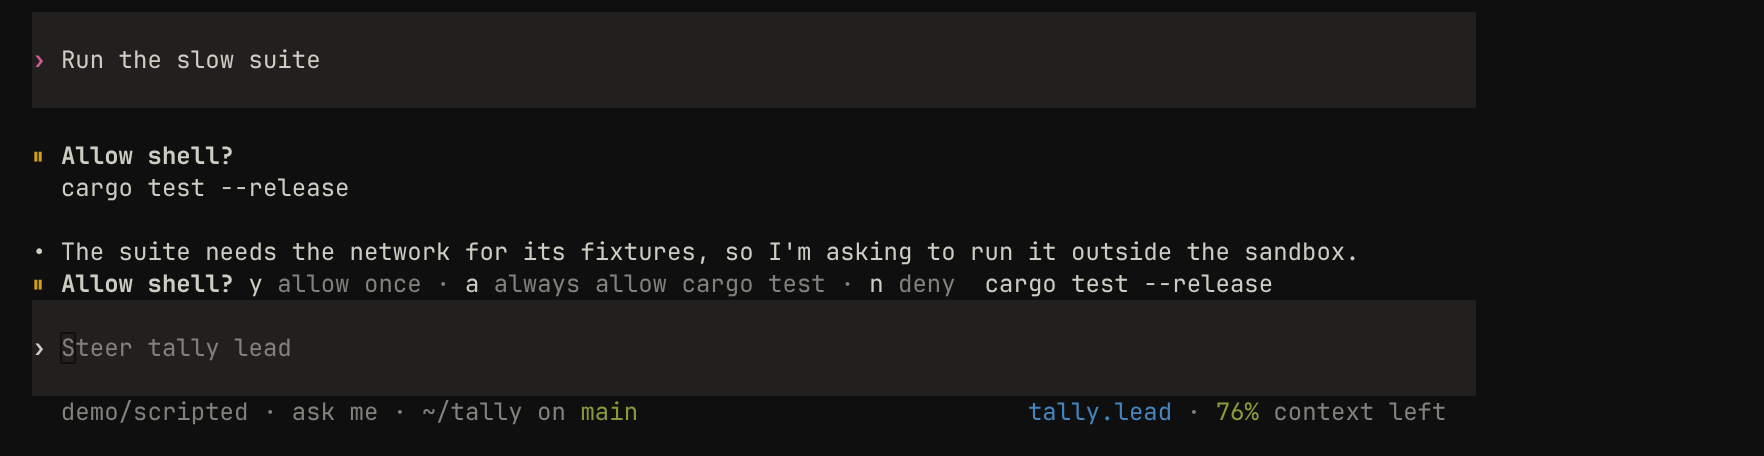
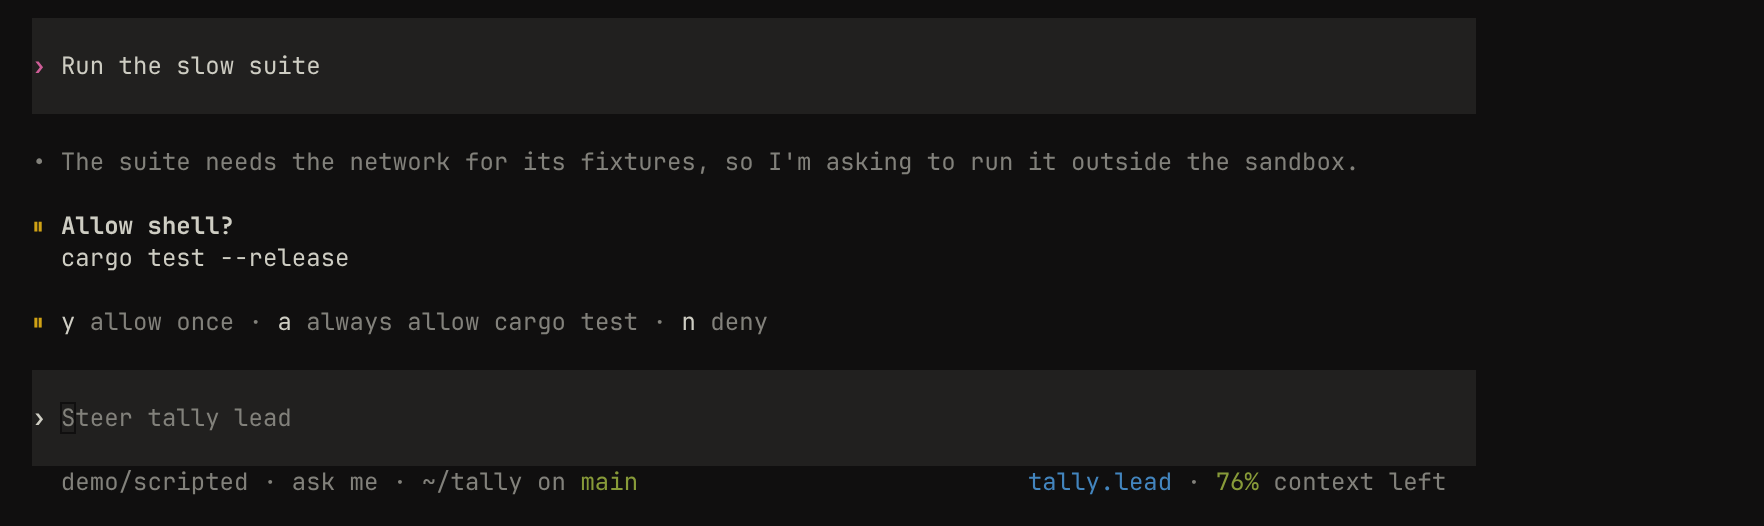
Sonny: the status row clears the composer band, words before a call read before it, an allowed call is recorded
The composer's band took the blank row that parted the status row from
the composer, so a waiting approval or Working sat flush on the band; a
blank row is back between them.

The agent's words before a call it waits on were held under the
approval card; they are written first, as a step, as the call's start
would write them.

The approval row shows only its keys, since the call is written out
whole right above it, and a call the person allows is recorded as
'Request allowed for ...' with what always allow keeps, as Codex records
each decision. Full access in the footer is the text's own weight, with
no hue: yellow is for what needs the person.

Claude-Session: https://claude.ai/code/session_013jkdGFWoGymhQdmvKaCDuV

diff --git a/sonny/src/main.rs b/sonny/src/main.rs
@@ -114,9 +114,10 @@ use std::{
 use transcript::Markdown;
 use unicode_width::UnicodeWidthStr;
 
-/// Rows kept at the bottom: the reply's unfinished line, the status, the
-/// composer between a row of its band above and below, and the footer.
-const VIEWPORT: u16 = 6;
+/// Rows kept at the bottom: the reply's unfinished line, the status, a
+/// blank row, the composer between a row of its band above and below, and
+/// the footer.
+const VIEWPORT: u16 = 7;
 /// The most rows a long prompt's composer grows to; it shows its end.
 const COMPOSER_ROWS: usize = 8;
 /// An agent in a folder: what a profile shown in the footer was read for.
@@ -1225,18 +1226,22 @@ fn edge(frame: &mut ratatui::Frame, gap: Rect, composer: Rect, pad: Rect) {
 }
 
 /// The viewport's rows, top to bottom: the reply's open line (`live`
-/// rows, wrapped), the status, a row of the composer's band, the composer
-/// (as many rows as are left), its band's row under it, and the footer.
+/// rows, wrapped), the status, a blank row that keeps the status off the
+/// band, as one blank row parts any two things, a row of the composer's
+/// band, the composer (as many rows as are left), its band's row under
+/// it, and the footer.
 fn areas(area: ratatui::layout::Rect, live: u16) -> [ratatui::layout::Rect; 6] {
-    Layout::vertical([
+    let [live, status, _, gap, composer, pad, footer] = Layout::vertical([
         Constraint::Length(live.max(1)),
+        Constraint::Length(1),
         Constraint::Length(1),
         Constraint::Length(1),
         Constraint::Min(1),
         Constraint::Length(1),
         Constraint::Length(1),
     ])
-    .areas(area)
+    .areas(area);
+    [live, status, gap, composer, pad, footer]
 }
 
 /// At most `keep` of `rows`, as near the end as still shows `row`; and
@@ -7082,7 +7087,9 @@ impl App {
         }
     }
 
-    async fn answer(&mut self, decision: &str) {
+    /// Answers the call waiting first; one allowed is recorded under it,
+    /// with the command `kept` from now on when it is always allowed.
+    async fn answer(&mut self, decision: &str, kept: Option<&str>) {
         let call = self.approvals.remove(0);
         let answered = self
             .client
@@ -7093,8 +7100,20 @@ impl App {
                     "by": "tui"}),
             )
             .await;
-        if let Err(error) = answered {
-            self.notice = Some(error.to_string());
+        match answered {
+            Err(error) => self.notice = Some(error.to_string()),
+            Ok(_) if decision == "allow" => {
+                let name = call["name"].as_str().unwrap_or("tool");
+                let lines = transcript::allowed(
+                    name,
+                    &call["arguments"],
+                    kept,
+                    &self.workspace,
+                    self.width,
+                );
+                self.commit(lines);
+            }
+            Ok(_) => {}
         }
         // A round with more calls waiting than one listing holds shows
         // the rest once these are answered.
@@ -7115,8 +7134,7 @@ impl App {
             self.notice = Some(format!("couldn't keep {prefix}: {error}"));
             return;
         }
-        self.answer("allow").await;
-        self.notice = Some(format!("{prefix} runs outside the sandbox from now on"));
+        self.answer("allow", Some(prefix)).await;
         if let Some(mode) = self.mode {
             self.gating = Some(mode);
             self.spread = Some((mode, Instant::now()));
@@ -8426,7 +8444,8 @@ impl App {
                             self.notice =
                                 Some("only part of this call could be read; n denies it".into());
                         } else {
-                            self.answer(if c == 'y' { "allow" } else { "deny" }).await;
+                            self.answer(if c == 'y' { "allow" } else { "deny" }, None)
+                                .await;
                         }
                     }
                     KeyCode::Char('a')
@@ -9509,7 +9528,7 @@ impl App {
     }
 
     /// The call waiting on the person, written out whole above the
-    /// status row before `y` can allow it: the row shows only its start.
+    /// status row before `y` can allow it: the row shows only the keys.
     fn show_asked(&mut self) {
         let Some(call) = self.approvals.first() else {
             self.asked = None;
@@ -9545,6 +9564,9 @@ impl App {
             let why = reason.split(". ").next().unwrap_or(reason);
             lines.push(Line::from(format!("  {why}")).dim());
         }
+        // What the agent said before the call reads before it, a step as
+        // the call's start would make it.
+        self.end_live(Words::Step);
         self.commit(lines);
     }
 
@@ -10164,16 +10186,10 @@ impl App {
             return Line::from(line);
         }
         if let Some(call) = self.approvals.first() {
-            let name = call["name"].as_str().unwrap_or("tool");
-            let what = call["arguments"]["command"]
-                .as_str()
-                .or_else(|| call["arguments"]["path"].as_str())
-                .map(first_line)
-                .unwrap_or_default();
-            // The keys first, so a narrow pane still shows how to answer.
+            // Only the keys: the call is written out whole right above,
+            // under the same ⏸, so the row does not say it again.
             let mut line = vec![
                 Span::raw("⏸ ").fg(Color::Yellow),
-                Span::raw(format!("Allow {name}? ")).bold(),
                 Span::raw("y"),
                 Span::raw(" allow once · ").dim(),
             ];
@@ -10181,7 +10197,7 @@ impl App {
                 line.push(Span::raw("a"));
                 line.push(Span::raw(format!(" always allow {prefix} · ")).dim());
             }
-            line.extend([Span::raw("n"), Span::raw(" deny  ").dim(), Span::raw(what)]);
+            line.extend([Span::raw("n"), Span::raw(" deny").dim()]);
             return Line::from(line);
         }
         if let Some(running) = &self.running {
@@ -10324,7 +10340,8 @@ impl App {
             left.push_str(&format!(" · {speed} speed when idle"));
         }
         // The row it runs in, last, unless it is the one new leads start
-        // in: full access in the warning colour, as nothing holds it back.
+        // in: full access in the text's own weight, not muted, as nothing
+        // holds it back; no hue, as yellow is for what needs the person.
         let row = match self.gating {
             Some(_) => None,
             None => self.mode.and_then(approvals::footer),
@@ -10421,7 +10438,7 @@ impl App {
         };
         if let Some(tail) = warned {
             spans.push(Span::raw(" · "));
-            spans.push(Span::raw(&tail[" · ".len()..]).fg(Color::Yellow).not_dim());
+            spans.push(Span::raw(&tail[" · ".len()..]).not_dim());
         }
         spans.push(Span::raw(place));
         if let Some(name) = branch.strip_prefix(" on ") {
@@ -11206,7 +11223,7 @@ mod tests {
         app.daemon(json!({"event": "resumed", "pause": pause, "durable": false}))
             .await;
         assert!(app.paused.is_none());
-        assert!(shown(&app).starts_with("⏸ Allow shell? "));
+        assert_eq!(shown(&app), "⏸ y allow once · n deny");
     }
 
     #[tokio::test]
@@ -11868,6 +11885,22 @@ mod tests {
         app.input.set("/retry");
         app.submit().await;
         assert_eq!(app.notice.as_deref(), Some("no recent reviewer denials"));
+    }
+
+    #[test]
+    fn a_call_the_person_allows_is_recorded_under_it() {
+        let shell = json!({"command": "cargo test --release"});
+        let once = transcript::allowed("shell", &shell, None, "/w", 80);
+        assert_eq!(once.len(), 1);
+        assert_eq!(
+            once[0].to_string(),
+            "✓ Request allowed for cargo test --release"
+        );
+        let kept = transcript::allowed("shell", &shell, Some("cargo test"), "/w", 80);
+        assert_eq!(
+            kept[1].to_string(),
+            "  └ cargo test runs outside the sandbox from now on"
+        );
     }
 
     #[test]
@@ -14144,7 +14177,9 @@ mod tests {
             "{full}"
         );
         let warned = full.spans.iter().find(|span| span.content == "full access");
-        assert_eq!(warned.and_then(|span| span.style.fg), Some(Color::Yellow));
+        let warned = warned.map(|span| span.style);
+        assert_eq!(warned.and_then(|style| style.fg), None);
+        assert!(warned.is_some_and(|style| style.sub_modifier.contains(Modifier::DIM)));
         app.mode = Some("auto");
         let wide = app.footer_line(100).to_string();
         assert!(

diff --git a/sonny/src/transcript.rs b/sonny/src/transcript.rs
@@ -1726,6 +1726,30 @@ pub fn denied(
     lines
 }
 
+/// A call the person allowed, as Codex records the decision: what it was,
+/// and the command `kept` from now on when they always allow it. A denial
+/// is [`denied`]'s, once the call ends.
+pub fn allowed(
+    name: &str,
+    arguments: &Value,
+    kept: Option<&str>,
+    workspace: &str,
+    width: usize,
+) -> Vec<Line<'static>> {
+    let what = action(name, arguments, workspace);
+    let mut lines = vec![Line::from(vec![
+        Span::raw("✓ ").fg(Color::Green),
+        Span::raw("Request "),
+        Span::raw("allowed").bold(),
+        Span::raw(" for "),
+        Span::raw(cut(&what, width.saturating_sub(23).max(8))).dim(),
+    ])];
+    if let Some(kept) = kept {
+        lines.push(Line::from(format!("  └ {kept} runs outside the sandbox from now on")).dim());
+    }
+    lines
+}
+
 /// What a tool call did: one header line, then a short look at its result.
 pub fn tool(
     name: &str,

diff --git a/sonny/FEATURES.md b/sonny/FEATURES.md
@@ -140,7 +140,7 @@ per feature; group small things into the row they belong to.
 
 | Feature | Status | History | Why | Used? |
 |---|---|---|---|---|
-| `/permissions` (was `/approvals`): rows Auto, Ask me, Read only, Full access and the person's own `[sonny.permissions.NAME]`, each a sandbox and who approves the rest; the reviewer shown in progress, `/retry` retries a denial, `a` always allows a command's first words | shipped | added 10-28 #261; `/approve` is `/retry`, the judge is the reviewer 10-30 #438; changed 10-31 #480: `/permissions` as Codex's, read only, rows of your own, default_permissions, always allow, reads unjudged in every row | Approvals stay visible and easy to override; work permissively by default, with stronger sandboxes a pick away | ? |
+| `/permissions` (was `/approvals`): rows Auto, Ask me, Read only, Full access and the person's own `[sonny.permissions.NAME]`, each a sandbox and who approves the rest; the reviewer shown in progress, `/retry` retries a denial, `a` always allows a command's first words | shipped | added 10-28 #261; `/approve` is `/retry`, the judge is the reviewer 10-30 #438; changed 10-31 #480: `/permissions` as Codex's, read only, rows of your own, default_permissions, always allow, reads unjudged in every row, an allowed call recorded, the approval row only keys | Approvals stay visible and easy to override; work permissively by default, with stronger sandboxes a pick away | ? |
 | Auto approver (a model judges gated calls) | shipped | added 09-27 #47; permissive 10-27 #176; Codex's guardian policy 10-28 #237; sees history 10-28 #243; sandbox escapes only 10-28 #275; moved out of the CLI into `sonny approver`, the daemon's companion, 10-30 (the daemon keeps only the gate) | Few prompts, stop only likely unasked danger | ? |
 | Pull cord: `/pause REASON` and `agent pause --reason` stop every agent until `/resume`, across restarts | experimental | added 10-30 #408 | One stop for the whole line when agents do harm someone needs to look at; agents pull it from the CLI, with no tool | ? |
 | OpenAI Decisions judge for the approver | removed | added 10-25 #141; removed 10-30 #389 | Removed as unused, with no clear gain over the other judges; may come back when the API matures | no |

diff --git a/sonny/README.md b/sonny/README.md
@@ -519,12 +519,16 @@ way `/react` does, and each note in the margin has its own `↩`.
   the status row says `Reviewing approval request` (Sonny keeps
   `sonny approver` as the daemon's companion when nothing serves it), and
   a denied call is drawn as `✗ Request denied for …` with the reviewer's
-  reason, in either view. The footer names the row unless it is the one new
-  leads start in, full access in yellow.
+  reason, in either view; one you allow is drawn as `✓ Request allowed
+  for …`, as Codex records each decision. The status row above the
+  composer shows only the keys, since the call is written out whole right
+  above it. The footer names the row unless it is the one new leads start
+  in, full access in the text's own weight rather than muted (no hue:
+  yellow is for what needs you).
 
   ![/permissions: Sonny's four rows, then one of the config's](../docs/sonny/permissions.png)
 
-  ![The footer naming full access in yellow](../docs/sonny/permissions-full-footer.png)
+  ![The footer naming full access](../docs/sonny/permissions-full-footer.png)
 
   Rows of your own follow Sonny's, as Codex's permission profiles do, from
   `~/.agent/config.toml`:
@@ -558,6 +562,8 @@ way `/react` does, and each note in the margin has its own `↩`.
   agents take it at once.
 
   ![An approval prompt offering to always allow cargo test](../docs/sonny/permissions-always.png)
+
+  ![The call allowed, and cargo test outside the sandbox from now on](../docs/sonny/permissions-allowed.png)
 - `/retry` lists the calls the reviewer denied while Sonny watched, with
   the reason for each. Enter writes the call out whole, and a second
   Enter sends your approval of that exact call as your own message, so
